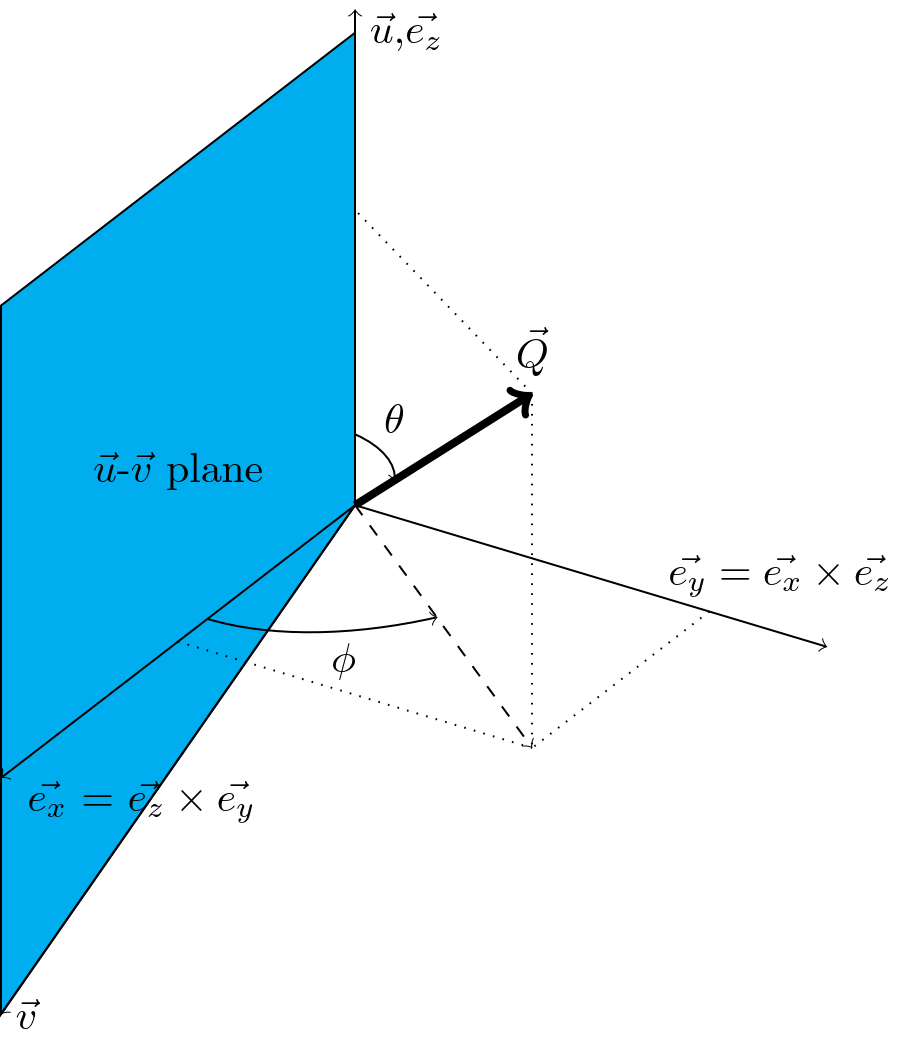
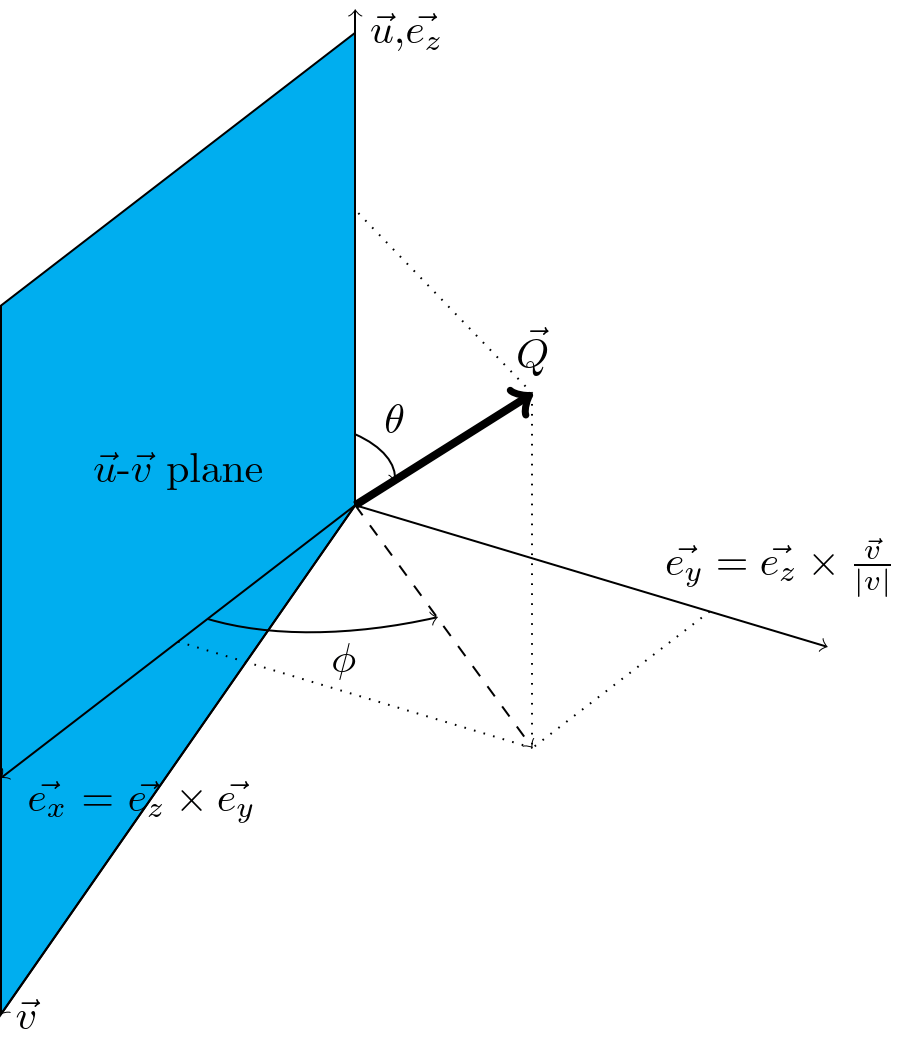
Re #1686 better e_y axis description

diff --git a/documentation/user_docs/docs/images/cylinder_proj_coordinates.tex b/documentation/user_docs/docs/images/cylinder_proj_coordinates.tex
@@ -11,7 +11,7 @@
   
   \draw [line width=2pt] (0,0,0)--(0,0,2.5) node [above,xshift=0.4cm,yshift=-1.5cm] {$Q_{\|}$};
   \draw [->] (0,0) -- (6.2,0,-3.1) node [right,xshift=0.3cm,yshift=.4cm] {$\vec{v}$};
-  \draw [->] (0,0) -- (0,5,0) node [above,xshift=-0.8cm,yshift=-0.7cm] {$\vec{e_y} = \vec{e_x} \times \vec{e_z}$};
+  \draw [->] (0,0) -- (0,5,0) node [above,xshift=-0.8cm,yshift=-0.8cm] {$\vec{e_y} = \vec{e_z} \times \frac{\vec{v}}{|v|}$};
   \draw [->] (0,0) -- (0,0,5) node [right,yshift=-0.5cm] {$\vec{u}$,$\vec{e_z}$};
 
   \draw [->] (0,0) -- (6,0,0) node [right,xshift=0.cm,yshift=-0.1cm] {$\vec{e_x}$ = $\vec{e_z} \times \vec{e_y}$};

diff --git a/documentation/user_docs/docs/images/sphere_proj_coordinates.tex b/documentation/user_docs/docs/images/sphere_proj_coordinates.tex
@@ -7,7 +7,7 @@
   \draw [fill=cyan] (0,0,0)--(6,0,-2)--(6,0,4)--(0,0,4) node [above, xshift=-1.5cm,yshift=-4cm] {$\vec{u}$-$\vec{v}$ plane};
 
   \draw [->] (0,0) -- (6,0,-2) node [right] {$\vec{v}$};
-  \draw [->] (0,0) -- (0,4,0) node [above,xshift=-0.4cm,yshift=0.3cm] {$\vec{e_y} = \vec{e_x} \times \vec{e_z}$};
+  \draw [->] (0,0) -- (0,4,0) node [above,xshift=-0.4cm,yshift=0.3cm] {$\vec{e_y} = \vec{e_z} \times \frac{\vec{v}}{|v|}$};
   \draw [->] (0,0) -- (0,0,4.2) node [right,yshift=-0.2cm] {$\vec{u}$,$\vec{e_z}$};
 
   \draw [->] (0,0) -- (6,0,0) node [right,xshift=0.1cm,yshift=-0.2cm] {$\vec{e_x}$ = $\vec{e_z} \times \vec{e_y}$};
